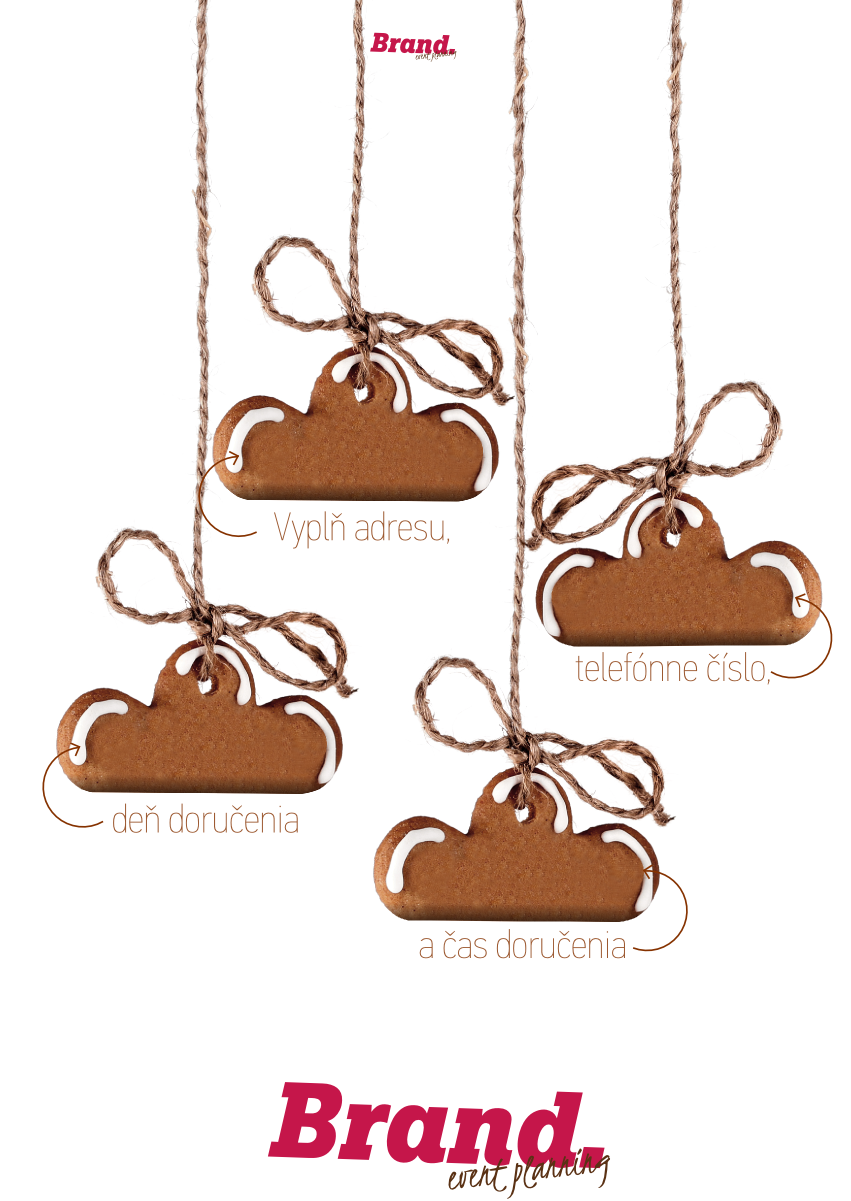
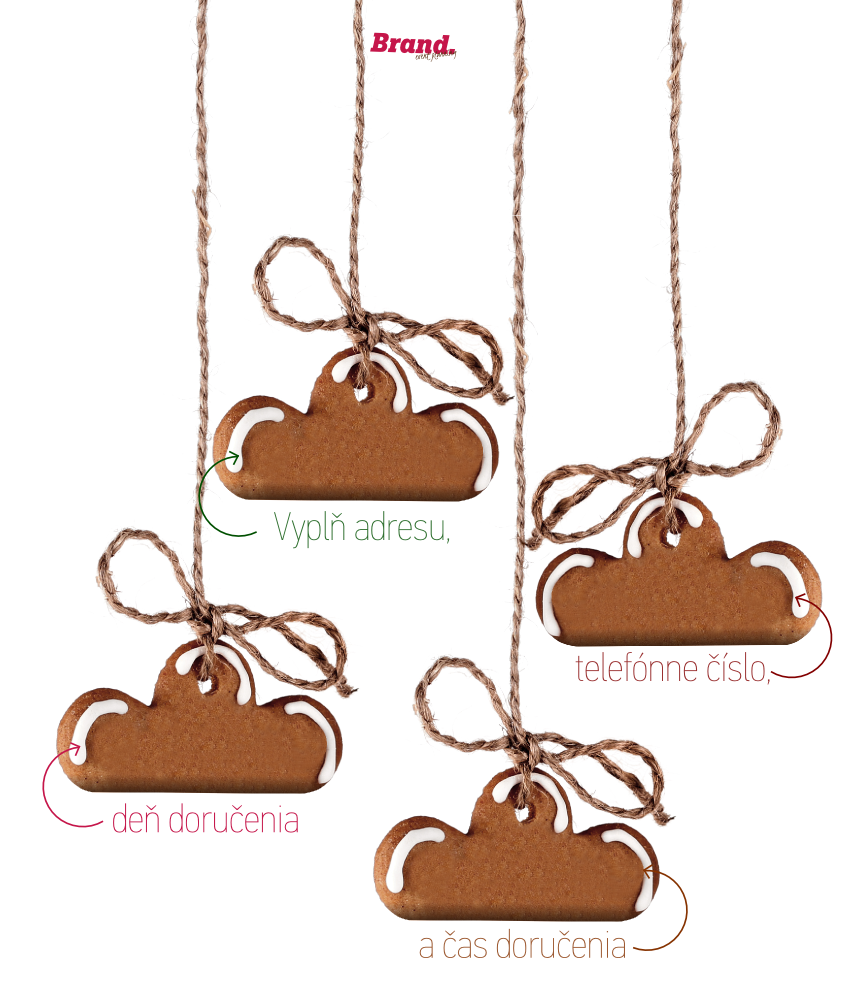
design update

diff --git a/stylesheets/main.css b/stylesheets/main.css
@@ -47,14 +47,14 @@ div.title
 div.mainText1
 {
 	position: absolute;
-	left: 443px;
+	left: 50%;
+	margin-left: -205px;
 	top: 20px;
 	color: #853200;
 	background: transparent;
 	font-family: PF Din Text Cond Pro X Thin;
 	font-size: 25px;
 	width:130px; 
-	margin: auto;
 	text-align: left;
 	padding-top: 10px;
 	
@@ -63,15 +63,15 @@ div.mainText1
 div.mainText2
 {
 	position: absolute;
-	left: 597px;
+	left: 50%;
 	top: 20px;
 	z-index: -2;
-	color: #853200;
+	color: darkred;
 	background: transparent;
 	font-family: PF Din Text Cond Pro X Thin;
 	font-size: 25px;
 	width: 130px; 
-	margin: auto;
+	margin-left: -50px;
 	text-align: left;
 	padding-top: 10px;
 }
@@ -79,14 +79,14 @@ div.mainText2
 div.mainText3
 {
 	position: absolute;
-	left: 755px;
+	left: 50%;
 	top: 20px;
-	color: #853200;
+	color: darkgreen;
 	background: transparent;
 	font-family: PF Din Text Cond Pro X Thin;
 	font-size: 25px;
 	width:130px;
-	margin: auto;
+	margin-left: 110px;
 	text-align: left;
 	padding-top: 10px;
 }
@@ -94,14 +94,14 @@ div.mainText3
 div.mainText4
 {
 	position: absolute;
-	left: 400px;
-	top: 970px;
+	left: 50%;
+	top: 1030px;
 	color: #853200;
 	background: transparent;
 	font-family: PF Din Text Cond Pro X Thin;
 	font-size: 25px;
 	width:400px;
-	margin: auto;
+	margin-left: -200px;
 	text-align: center;
 	padding-top: 10px;
 }
@@ -109,28 +109,32 @@ div.mainText4
 div.residence
 {
 	position: absolute;
-	left: 470px;
+	left:50%;
+	margin-left: -180px;
 	top: 413px;
 }
 
 div.phone
 {
 	position: absolute;
-	left: 782px;
+	left:50%;
+	margin-left: 132px;
 	top: 560px;
 }
 
 div.date
 {
 	position: absolute;
-	left: 320px;
+	left:50%;
+	margin-left: -335px;
 	top: 710px;
 }
 
 div.time
 {
 	position: absolute;
-	left: 635px;
+	left:50%;
+	margin-left: -15px;
 	top: 838px;
 }
 
@@ -267,8 +271,9 @@ input.startbutton:focus
 input.submit 
 {  
 	position: absolute;
-	left: 320px;
-	top: 890px;
+	left:50%;
+	margin-left: -100px;
+	top: 960px;
     padding: 4px;    
     text-align:center;
     font: 25px/100% PF Din Text Cond Pro X Thin, Tahoma, sans-serif;  

diff --git a/index.html b/index.html
@@ -9,7 +9,8 @@
 	</head>
 
 	<body>
-		<img style="position: absolute; left:225px; top:0px; z-index:-1;"src="../img/bg3.png">
+		<img style="position: absolute; left:50%; margin-left:-425px; top:0px; z-index:-1;"src="../img/bg3.png">
+		<img style="margin-bottom:10px; position: absolute; width:200px; height:auto; left:50%; margin-left:-100px; top:1150px; z-index:-1;"src="../img/brand.png">
 	
 		
 		
@@ -49,8 +50,8 @@
 					<div class="date">
 						<select id="date" name="date" class="validate {% if 'date' in errorIds %} error{% endif%}">
 							<option value="" disabled="disabled" selected="selected">Vyber si deň</option>
-							<option value="piatok" {% if p.date == 'piatok' %} selected="selected" {% endif %}>Piatok</option>
-							<option value="sobota" {% if p.date == 'sobota' %} selected="selected" {% endif %}>Sobota</option>
+							<option value="piatok" {% if p.date == 'piatok' %} selected="selected" {% endif %}>Piatok 20.12</option>
+							<option value="sobota" {% if p.date == 'sobota' %} selected="selected" {% endif %}>Sobota 21.12</option>
 						</select>
 						<!--<label for="date">Deň doručenia</label>-->
 					</div>
